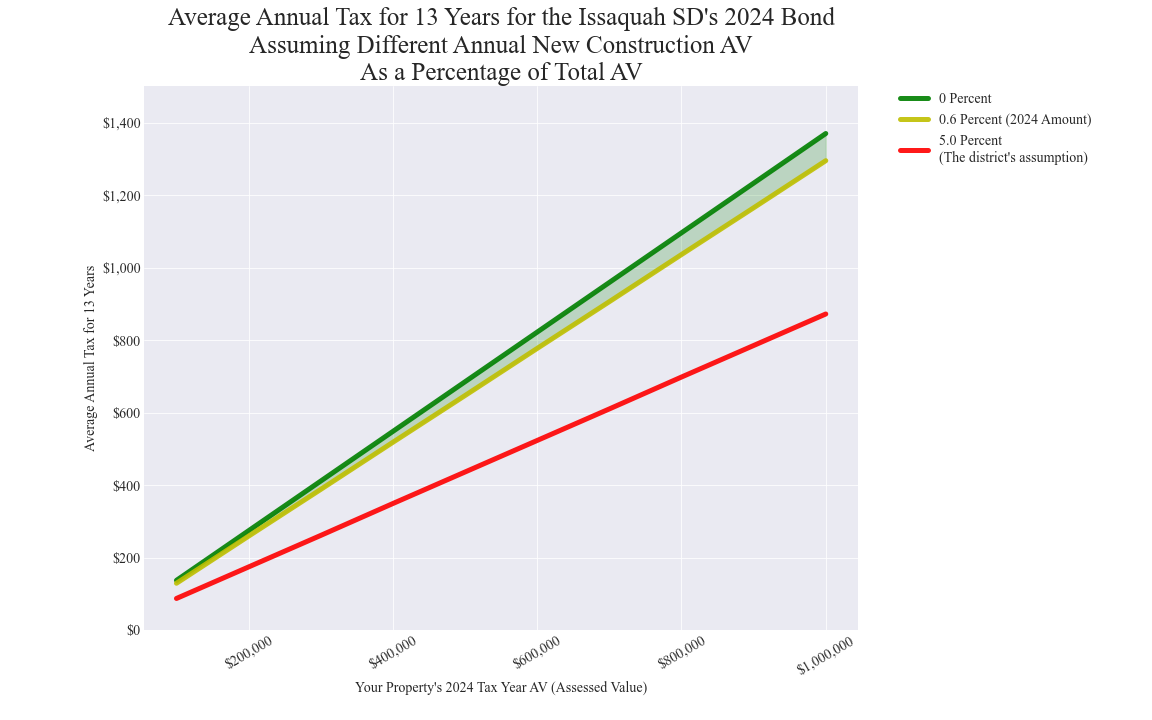
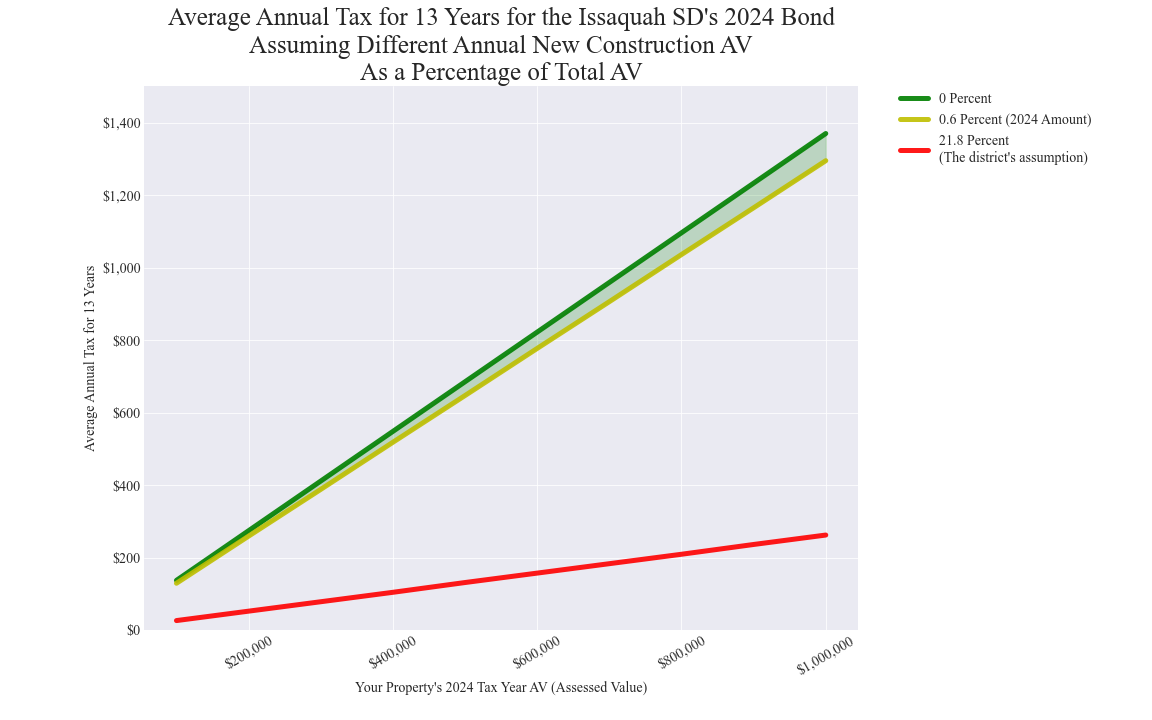
Updated elec 20241105
Updated:
Issaquah

diff --git a/_includes/cost_estimates/20241105/CostAnalysisGrades.html b/_includes/cost_estimates/20241105/CostAnalysisGrades.html
@@ -34,8 +34,8 @@
           ['Island', 'South Whidbey', 'Tech Levy', {v: 73, f:'73'},'C', ],
           ['Benton', 'Richland', 'Bond', {v: 70, f:'70'},'C-', ],
           ['Snohomish', 'Lake Stevens', 'Bond', {v: 69, f:'69'},'D+', ],
-          ['King', 'Issaquah', 'Bond', {v: 65, f:'65'},'D', ],
           ['Pierce', 'Sumner', 'Bond', {v: 60, f:'60'},'D-', ],
+          ['King', 'Issaquah', 'Bond', {v: 21, f:'21'},'F', ],
         ]);
 
         var table = new google.visualization.Table(document.getElementById('table_div'));

diff --git a/_includes/cost_estimates/20241105/IssaquahBondTable_20241105.html b/_includes/cost_estimates/20241105/IssaquahBondTable_20241105.html
@@ -37,7 +37,7 @@ table, th, td {
 	pofChangeMin = -6.0;
 	pofChangeMax = 6.0;
 	newConstructionChangeMin = 0.0;
-	newConstructionChangeMax = 6.0;
+	newConstructionChangeMax = 30.0;
 	examplePropertyAVChangeMin = -30;
 	examplePropertyAVChangeMax = 30;
 	existingPropertiesAVChangeMin = -30;
